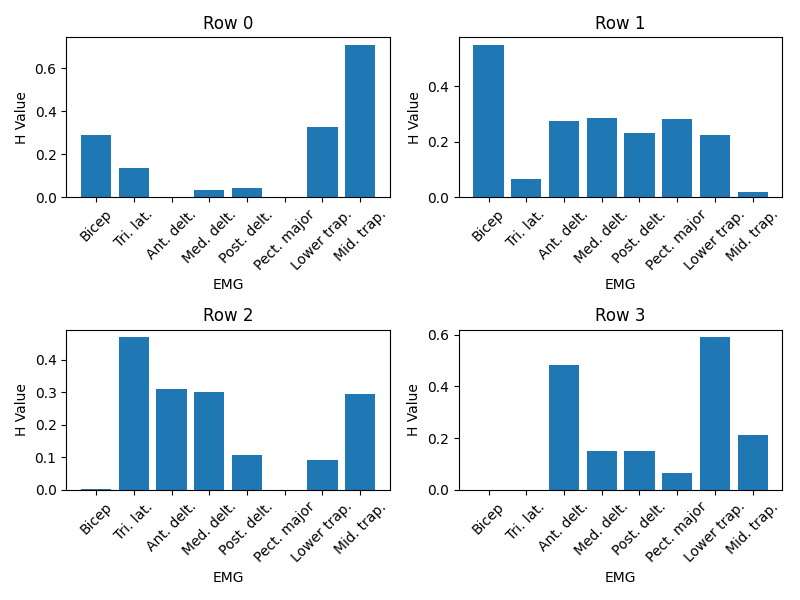
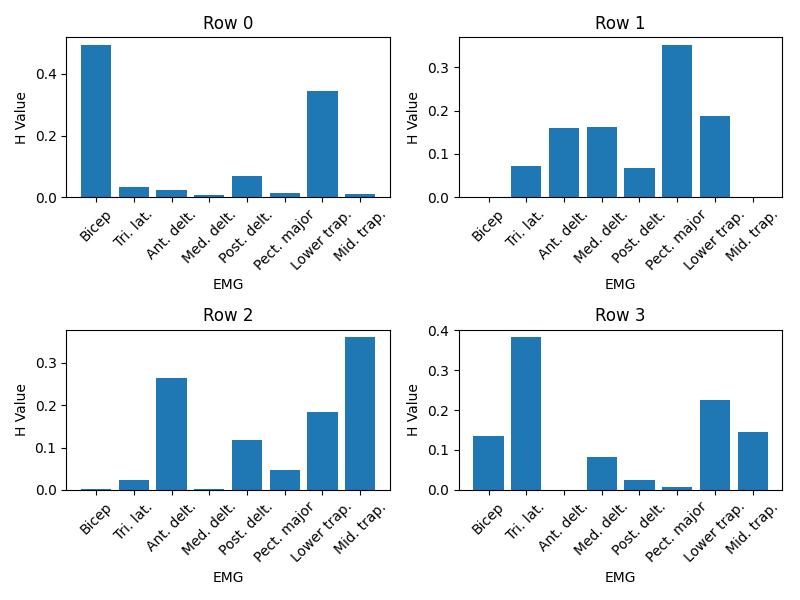
normalized H_ref and H_match properly and cleaned up code

diff --git a/src/script/find_similar_synergies.py b/src/script/find_similar_synergies.py
@@ -14,10 +14,10 @@ from scipy.stats import truncnorm, norm
 from sklearn.preprocessing import normalize
 
 # Input: An 1D array of CSV files containing a reference data CSV and a matching data CSV
-# Returns: H_refs and H_matches, each of which is a dictionary where the key is the tuple (participant, task) and the value is the optimal H, as well as W_ref and W_match
+# Returns: H_refs, H_matches, W_ref, W_match
 def find_all_Hs(data):
-    H_refs = {}
-    H_matches = {}
+    H_ref = []
+    H_match = []
     W_ref = []
     W_match = []
     for mat in data:
@@ -25,67 +25,66 @@ def find_all_Hs(data):
         #all_participants = ['c02', 'c04', 'c05', 'c07', 'c08', 'c09', 'c10'] # omitted c06 for now
         #all_tasks = ['10%', '30%', '50%']
         # Group by task
-        all_participants = ['c02']
-        all_tasks = ['50%']
-        for participant in all_participants:
-            for task in all_tasks:
-                load_data = match_df.loc[(match_df['Task'] == task) & (match_df['Su'] != 'c06')]
-                load_emg = load_data.loc[:, 'Bicep':'MidTrap'].values
+        #all_participants = ['c02']
+        all_tasks = ['10%']
+        for task in all_tasks:
+            load_data = match_df.loc[(match_df['Task'] == task) & (match_df['Su'] != 'c06')]
+            load_emg = load_data.loc[:, 'Bicep':'MidTrap'].values
 
-                curr_mean = 0
-                VAF_best = 0
-                H_best = 0
-                gmeans_all_ranks = np.zeros([1,3])
-                lmeans_all_ranks = np.zeros([3,8])
-                Hs_all_ranks = []
-                W_best = 0
-                rank_chosen = 0
-                for rank in range(2, 5):
-                    g_mean, l_mean, VAF_m, H_m, W_m = rank_determine_helper(100, load_emg, rank)
-                    gmeans_all_ranks[0,rank-2] = g_mean
-                    lmeans_all_ranks[rank-2,:] = l_mean
-                    Hs_all_ranks.append(H_m)
-                    if np.any(l_mean < 80) or g_mean < 90:
-                        continue
-                    elif g_mean - curr_mean >= 3:
-                        curr_mean = g_mean
-                        VAF_best = VAF_m
-                        H_best = H_m
-                        W_best = W_m
-                        rank_chosen = rank
-                    else:
-                        continue
+            curr_mean = 0
+            VAF_best = 0
+            H_best = 0
+            gmeans_all_ranks = np.zeros([1,3])
+            lmeans_all_ranks = np.zeros([3,8])
+            Hs_all_ranks = []
+            W_best = 0
+            rank_chosen = 0
+            for rank in range(2, 5):
+                g_mean, l_mean, VAF_m, H_m, W_m = rank_determine_helper(100, load_emg, rank)
+                gmeans_all_ranks[0,rank-2] = g_mean
+                lmeans_all_ranks[rank-2,:] = l_mean
+                Hs_all_ranks.append(H_m)
+                if np.any(l_mean < 80) or g_mean < 90:
+                    continue
+                elif g_mean - curr_mean >= 3:
+                    curr_mean = g_mean
+                    VAF_best = VAF_m
+                    H_best = H_m
+                    W_best = W_m
+                    rank_chosen = rank
+                else:
+                    continue
 
-                # If none of the ranks have g_mean > 90 and np.all(l_mean) > 80)
-                if type(H_best) == int: # still same as its initialized value --> no optimal H has been found yet
-                    print("entered second round selection")
-                    if np.any(np.all(lmeans_all_ranks > 80, axis=1)): # if any row/rank has all l_means > 80, pick that one
-                        rank_chosen = np.where(np.all(lmeans_all_ranks > 80, axis=1))[0][0] + 2 # lowest rank/row where all l_means > 80
-                        H_best = Hs_all_ranks[np.where(np.all(lmeans_all_ranks > 80, axis=1))[0][0]]
-                    elif np.any(gmeans_all_ranks > 90):
-                        rank_chosen = np.where(gmeans_all_ranks > 90)[0][0] + 2 # else, pick lowest rank with g_mean > 90
-                        H_best = Hs_all_ranks[np.where(gmeans_all_ranks > 90)[0][0]]
-                    else:
-                        H_best = []
-                        print("No H satisfies the criteria.")
-                        continue
+            # If none of the ranks have g_mean > 90 and np.all(l_mean) > 80)
+            if type(H_best) == int: # still same as its initialized value --> no optimal H has been found yet
+                print("entered second round selection")
+                if np.any(np.all(lmeans_all_ranks > 80, axis=1)): # if any row/rank has all l_means > 80, pick that one
+                    rank_chosen = np.where(np.all(lmeans_all_ranks > 80, axis=1))[0][0] + 2 # lowest rank/row where all l_means > 80
+                    H_best = Hs_all_ranks[np.where(np.all(lmeans_all_ranks > 80, axis=1))[0][0]]
+                elif np.any(gmeans_all_ranks > 90):
+                    rank_chosen = np.where(gmeans_all_ranks > 90)[0][0] + 2 # else, pick lowest rank with g_mean > 90
+                    H_best = Hs_all_ranks[np.where(gmeans_all_ranks > 90)[0][0]]
+                else:
+                    H_best = []
+                    print("No H satisfies the criteria.")
+                    continue
 
 
-                print('best number of synergy chosen is: ', rank_chosen)
-                print('H_best is:\n', H_best)
-                if 'reference' in mat:
-                    print("Reference")
-                    print("H: " + str(H_best))
-                    print("EMG mean weights: " + str(np.mean(W_best, axis=0)))
-                    H_refs[(participant, task)] = H_best
-                    W_ref = W_best
-                    #x=0
-                elif 'match' in mat:
-                    print("Match")
-                    print("H: " + str(H_best))
-                    print("EMG mean weights: " + str(np.mean(W_best, axis=0)))
-                    H_matches[(participant, task)] = H_best
-                    W_match = W_best
+            print('best number of synergy chosen is: ', rank_chosen)
+            print('H_best is:\n', H_best)
+            if 'reference' in mat:
+                print("Reference")
+                print("H: " + str(H_best))
+                print("EMG mean weights: " + str(np.mean(W_best, axis=0)))
+                H_ref = H_best
+                W_ref = W_best
+                #x=0
+            elif 'match' in mat:
+                print("Match")
+                print("H: " + str(H_best))
+                print("EMG mean weights: " + str(np.mean(W_best, axis=0)))
+                H_match = H_best
+                W_match = W_best
 
 
     # Plot histogram of H_matches[0]
@@ -93,45 +92,45 @@ def find_all_Hs(data):
     fig, axs = plt.subplots(2, 4)
     num_emgs = 8
     for emg_count in range(0, num_emgs):
-        H_matches_values_list = list(H_matches.values())
-        axs[int(emg_count/4), emg_count % 4].hist(H_matches_values_list[0][:, emg_count], list(np.array(np.arange(0,1,0.01))))
-        emg_mean = np.mean(H_matches_values_list[0][:,emg_count])
-        emg_stdev = np.std(H_matches_values_list[0][:,emg_count])
+        #H_matches_values_list = list(H_matches.values())
+        axs[int(emg_count/4), emg_count % 4].hist(H_match[:, emg_count], list(np.array(np.arange(0,1,0.01))))
+        emg_mean = np.mean(H_match[:,emg_count])
+        emg_stdev = np.std(H_match[:,emg_count])
         title_str = 'μ≈' + str(round(emg_mean, 2)) + ', σ≈' + str(round(emg_stdev, 2))
         axs[int(emg_count/4), emg_count % 4].set_title(title_str)
         axs[int(emg_count / 4), emg_count % 4].set_xlabel('EMG H Value')
         axs[int(emg_count / 4), emg_count % 4].set_ylabel('Frequency')
-    plt.savefig('H_matches histogram for ' + str(task) + ' task')
+    plt.savefig('H_matches histogram')
     plt.show()
 
-    return H_refs, H_matches, W_ref, W_match
+    return H_ref, H_match, W_ref, W_match
 
 
 def scalar_prod_similarity_normal():
     datasets = np.array(['../data/referenceData_121120.csv', '../data/matchData_121120.csv'])
 
     # Find Hs for all the datasets
-    H_refs, H_matches, W_ref, W_match = find_all_Hs(datasets)
-    H_refs[0] = normalize(list(H_refs.values())[0], norm='l1')
-    H_matches[0] = normalize(list(H_matches.values())[0], norm='l1')
-    if H_refs == None or H_matches == None:
+    H_ref, H_match, W_ref, W_match = find_all_Hs(datasets)
+    H_ref = normalize(H_ref, norm='l1')
+    H_match = normalize(H_match, norm='l1')
+    if H_ref == None or H_match == None:
         return
 
     # Generate the random matrices
     num_emgs = 8
-    H_refs_concat= np.concatenate(list(H_refs.values())) # concatenate all H_refs into one matrix, then find their mean and stdev
-    H_refs_emg_means = np.mean(H_refs_concat, axis=0)
-    H_refs_emg_stdevs = np.std(H_refs_concat, axis=0)
+    #H_refs_concat= np.concatenate(list(H_refs.values())) # concatenate all H_refs into one matrix, then find their mean and stdev
+    H_refs_emg_means = np.mean(H_ref, axis=0)
+    H_refs_emg_stdevs = np.std(H_ref, axis=0)
     H_ref_rand = np.zeros([1000,8])
     for emg_count in range(0, num_emgs):
         H_ref_rand[:,emg_count] = np.random.normal(H_refs_emg_means[emg_count], H_refs_emg_stdevs[emg_count], 1000)
     H_ref_rand[np.where(H_ref_rand < 0)] = 0
     H_ref_rand = normalize(H_ref_rand, norm='l1')
 
-    H_matches_concat = np.concatenate(list(H_matches.values()))  # concatenate all H_refs into one matrix, then find their mean and stdev
-    print("rows in H_matches_concat: " + str(np.shape(H_matches_concat)[0]))
-    H_matches_emg_means = np.mean(H_matches_concat, axis=0)
-    H_matches_emg_stdevs = np.std(H_matches_concat, axis=0)
+    #H_matches_concat = np.concatenate(list(H_matches.values()))  # concatenate all H_refs into one matrix, then find their mean and stdev
+    print("rows in H_matches_concat: " + str(np.shape(H_match)[0]))
+    H_matches_emg_means = np.mean(H_match, axis=0)
+    H_matches_emg_stdevs = np.std(H_match, axis=0)
     H_matches_rand = np.zeros([1000, 8])
 
     plt.rcParams["figure.figsize"] = (8, 6)
@@ -156,12 +155,10 @@ def scalar_prod_similarity_normal():
     # key is tuple of format (href, href row, hmatch, hmatch row)
     # value is scalar product of href row (1 x 8) and hmatch row ( 1 x 8)
     scalar_prods = {}
-    for href in H_refs.keys():
-        for hmatch in H_matches.keys():
-            for i in range(0, H_refs[href].shape[0]):
-                for j in range(0, H_matches[hmatch].shape[0]):
-                    #scalar_prods[(href, i, hmatch, j)] = np.dot(H_refs[href][i,:], H_matches[hmatch][j,:])
-                    scalar_prods[("H_ref", i, "H_match", j)] = np.dot(H_refs[href][i, :], H_matches[hmatch][j, :])
+    for i in range(0, H_ref.shape[0]):
+        for j in range(0, H_match.shape[0]):
+            #scalar_prods[(href, i, hmatch, j)] = np.dot(H_refs[href][i,:], H_matches[hmatch][j,:])
+            scalar_prods[("H_ref", i, "H_match", j)] = np.dot(H_ref[i, :], H_match[j, :])
 
     # Add scalar products of H_ref_rand and H_match_rand to the dictionary
     # key is of form ("H_ref_rand", H_ref row, "H_match_rand", H_match row)
@@ -177,7 +174,7 @@ def scalar_prod_similarity_normal():
     print("participant_synergy_pairs: " + str(participant_synergy_pairs))
     syn_pairs_same_participant_and_task = [pair for pair in participant_synergy_pairs if pair[0][0] == pair[0][2]] # if both correspond to same participant and same task
     # choose rank number of synergy pairs with the highest scalar product if the syn_pairs_same_participant_and_task >= rank
-    rank = np.shape(H_matches_concat)[0]
+    rank = np.shape(H_match)[0]
     if rank < len(syn_pairs_same_participant_and_task):
         syn_pairs_same_participant_and_task = syn_pairs_same_participant_and_task[-rank:]
     print("syn_pairs_same_participant_and_task: " + str(syn_pairs_same_participant_and_task))
@@ -274,10 +271,12 @@ def scalar_prod_similarity_uniform():
     datasets = np.array(['../data/referenceData_121120.csv', '../data/matchData_121120.csv'])
 
     # Find Hs for all the datasets
-    H_refs, H_matches, W_ref, W_match = find_all_Hs(datasets)
-    print("H_refs: " + str(H_refs))
-    print("H_matches: " + str(H_matches))
-    if H_refs == None or H_matches == None:
+    H_ref, H_match, W_ref, W_match = find_all_Hs(datasets)
+    H_ref = normalize(H_ref, norm='l1')
+    H_match = normalize(H_match, norm='l1')
+    print("H_refs: " + str(H_ref))
+    print("H_matches: " + str(H_match))
+    if type(H_ref) == list or type(H_match) == list: # still [], the initialized value
         return
 
     plt.rcParams["figure.figsize"] = (8, 6)
@@ -293,9 +292,9 @@ def scalar_prod_similarity_uniform():
                     'Post. delt.', 'Pect. major',
                     'Lower trap.', 'Mid. trap.']
     x = np.arange(0,8)
-    H_matches_values = list(H_matches.values())
-    for syn in range(0, H_matches_values[0].shape[0]):
-        axs[int(syn/2), syn % 2].bar(x, H_matches_values[0][syn,:])
+    #H_matches_values = list(H_matches.values())
+    for syn in range(0, H_match.shape[0]):
+        axs[int(syn/2), syn % 2].bar(x, H_match[syn,:])
         axs[int(syn/2), syn % 2].set_xticks(np.arange(0,8))
         axs[int(syn/2), syn % 2].set_xticklabels(x_axis_names, rotation=45)
         axs[int(syn/2), syn % 2].set_title('Row ' + str(syn))
@@ -309,9 +308,9 @@ def scalar_prod_similarity_uniform():
     plt.rcParams["figure.figsize"] = (8, 6)
     fig, axs = plt.subplots(2, 2)
     x = np.arange(0, 8)
-    H_refs_values = list(H_refs.values())
-    for syn in range(0, H_refs_values[0].shape[0]):
-        axs[int(syn / 2), syn % 2].bar(x, H_refs_values[0][syn, :])
+    #H_refs_values = list(H_refs.values())
+    for syn in range(0, H_ref.shape[0]):
+        axs[int(syn / 2), syn % 2].bar(x, H_ref[syn, :])
         axs[int(syn / 2), syn % 2].set_xticks(np.arange(0, 8))
         axs[int(syn / 2), syn % 2].set_xticklabels(x_axis_names, rotation=45)
         axs[int(syn / 2), syn % 2].set_title('Row ' + str(syn))
@@ -325,11 +324,11 @@ def scalar_prod_similarity_uniform():
 
     # Generate the random matrices, using a uniform distribution with points ranging from mean-stdev to mean+stdev
     num_emgs = 8
-    H_refs_concat= np.concatenate(list(H_refs.values())) # concatenate all H_refs into one matrix, then find their mean and stdev
-    H_refs_emg_means = np.mean(H_refs_concat, axis=0)
+    #H_refs_concat= np.concatenate(list(H_refs.values())) # concatenate all H_refs into one matrix, then find their mean and stdev
+    H_refs_emg_means = np.mean(H_ref, axis=0)
     #H_refs_emg_stdevs = np.std(H_refs_concat, axis=0)
-    H_refs_emg_mins = np.min(H_refs_concat, axis=0)
-    H_refs_emg_maxes = np.max(H_refs_concat, axis=0)
+    H_refs_emg_mins = np.min(H_ref, axis=0)
+    H_refs_emg_maxes = np.max(H_ref, axis=0)
 
     H_ref_rand = np.zeros([1000,8])
     for emg_count in range(0, num_emgs):
@@ -337,12 +336,12 @@ def scalar_prod_similarity_uniform():
         H_ref_rand[:,emg_count] = np.random.uniform(lower_bound, H_refs_emg_maxes[emg_count]+0.2, 1000)
     H_ref_rand = normalize(H_ref_rand, norm='l1')
 
-    H_matches_concat = np.concatenate(list(H_matches.values()))  # concatenate all H_refs into one matrix, then find their mean and stdev
-    print("rows in H_matches_concat: " + str(np.shape(H_matches_concat)[0]))
-    H_matches_emg_means = np.mean(H_matches_concat, axis=0)
-    H_matches_emg_stdevs = np.std(H_matches_concat, axis=0)
-    H_matches_emg_mins = np.min(H_matches_concat, axis=0)
-    H_matches_emg_maxes = np.max(H_matches_concat, axis=0)
+    #H_matches_concat = np.concatenate(list(H_matches.values()))  # concatenate all H_refs into one matrix, then find their mean and stdev
+    print("rows in H_matches_concat: " + str(np.shape(H_match)[0]))
+    H_matches_emg_means = np.mean(H_match, axis=0)
+    H_matches_emg_stdevs = np.std(H_match, axis=0)
+    H_matches_emg_mins = np.min(H_match, axis=0)
+    H_matches_emg_maxes = np.max(H_match, axis=0)
     H_matches_rand = np.zeros([1000, 8])
 
     plt.rcParams["figure.figsize"] = (8, 6)
@@ -386,12 +385,10 @@ def scalar_prod_similarity_uniform():
     # key is tuple of format (href, href row, hmatch, hmatch row)
     # value is scalar product of href row (1 x 8) and hmatch row ( 1 x 8)
     scalar_prods = {}
-    for href in H_refs.keys():
-        for hmatch in H_matches.keys():
-            for i in range(0, H_refs[href].shape[0]):
-                for j in range(0, H_matches[hmatch].shape[0]):
-                    #scalar_prods[(href, i, hmatch, j)] = np.dot(H_refs[href][i, :], H_matches[hmatch][j, :])
-                    scalar_prods[("H_ref", i, "H_match", j)] = np.dot(H_refs[href][i,:], H_matches[hmatch][j,:])
+    for i in range(0, H_ref.shape[0]):
+        for j in range(0, H_match.shape[0]):
+            #scalar_prods[(href, i, hmatch, j)] = np.dot(H_refs[href][i, :], H_matches[hmatch][j, :])
+            scalar_prods[("H_ref", i, "H_match", j)] = np.dot(H_ref[i,:], H_match[j,:])
 
     # Add scalar products of H_ref_rand and H_match_rand to the dictionary
     # key is of form ("H_ref_rand", H_ref row, "H_match_rand", H_match row)
@@ -407,7 +404,7 @@ def scalar_prod_similarity_uniform():
     print("participant_synergy_pairs: " + str(participant_synergy_pairs))
     #syn_pairs_same_participant_and_task = [pair for pair in participant_synergy_pairs if pair[0][0] == pair[0][2]] # if both correspond to same participant and same task
     # choose rank number of synergy pairs with the highest scalar product if the syn_pairs_same_participant_and_task >= rank
-    rank = np.shape(H_matches_concat)[0]
+    rank = np.shape(H_match)[0]
 
     matches_dict = {} # key: H_ref row. value: (H_match row, scalar product)
     for i in range(0,rank):
@@ -418,7 +415,7 @@ def scalar_prod_similarity_uniform():
             match_for_i = matches_dict[i][0]
             W_ref_means = np.mean(W_ref, axis=0)
             W_match_means = np.mean(W_match, axis=0)
-            print("Match for row " + str(i) + ": " + str(match_for_i) + ", with H_ref: " + str(list(H_refs.values())[0][i,:]) + ", W_ref: " + str(W_ref_means[i]) + ", H_match: " + str(list(H_matches.values())[0][match_for_i,:]) + ", W_match: " + str(W_match_means[match_for_i]) + ", and scalar product: " + str(matches_dict[i][1]))
+            print("Match for row " + str(i) + ": " + str(match_for_i) + ", with H_ref: " + str(H_ref[i,:]) + ", W_ref: " + str(W_ref_means[i]) + ", H_match: " + str(H_match[match_for_i,:]) + ", W_match: " + str(W_match_means[match_for_i]) + ", and scalar product: " + str(matches_dict[i][1]))
 
 
     #if rank < len(syn_pairs_same_participant_and_task):
